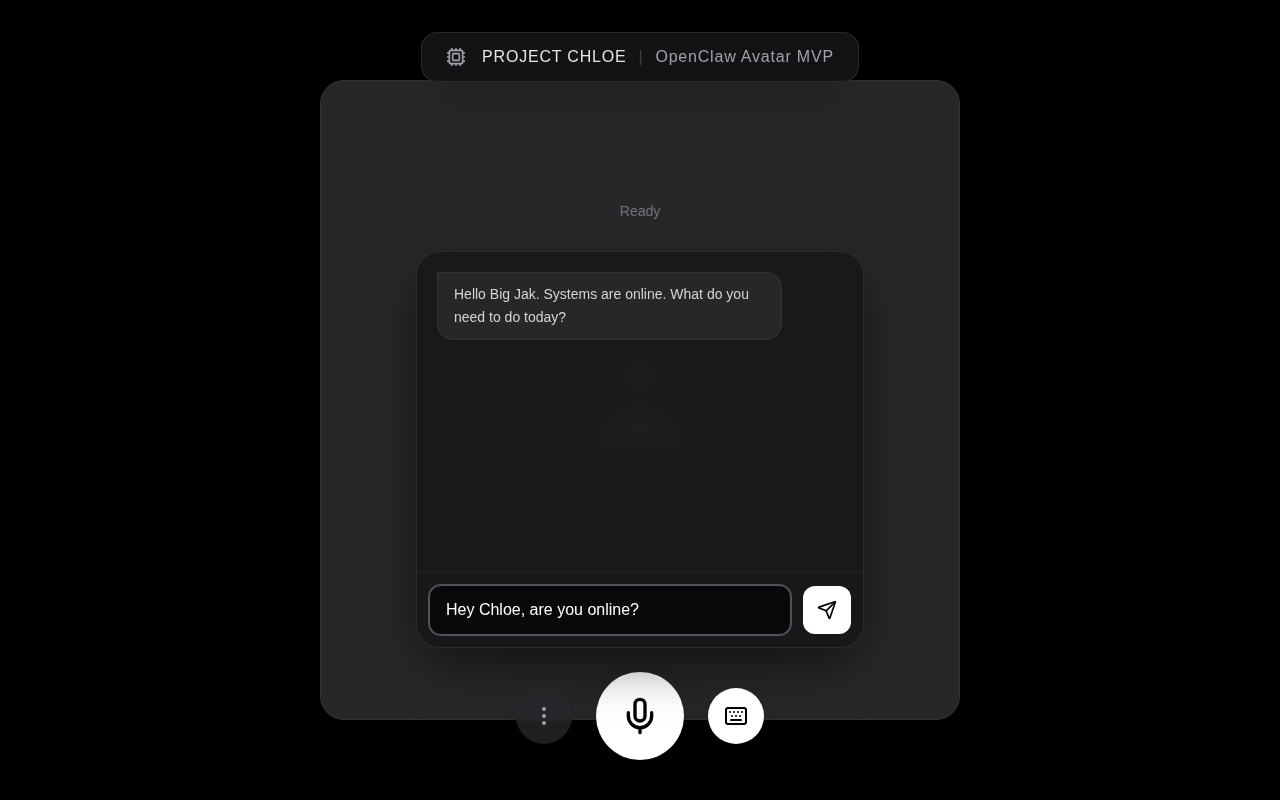
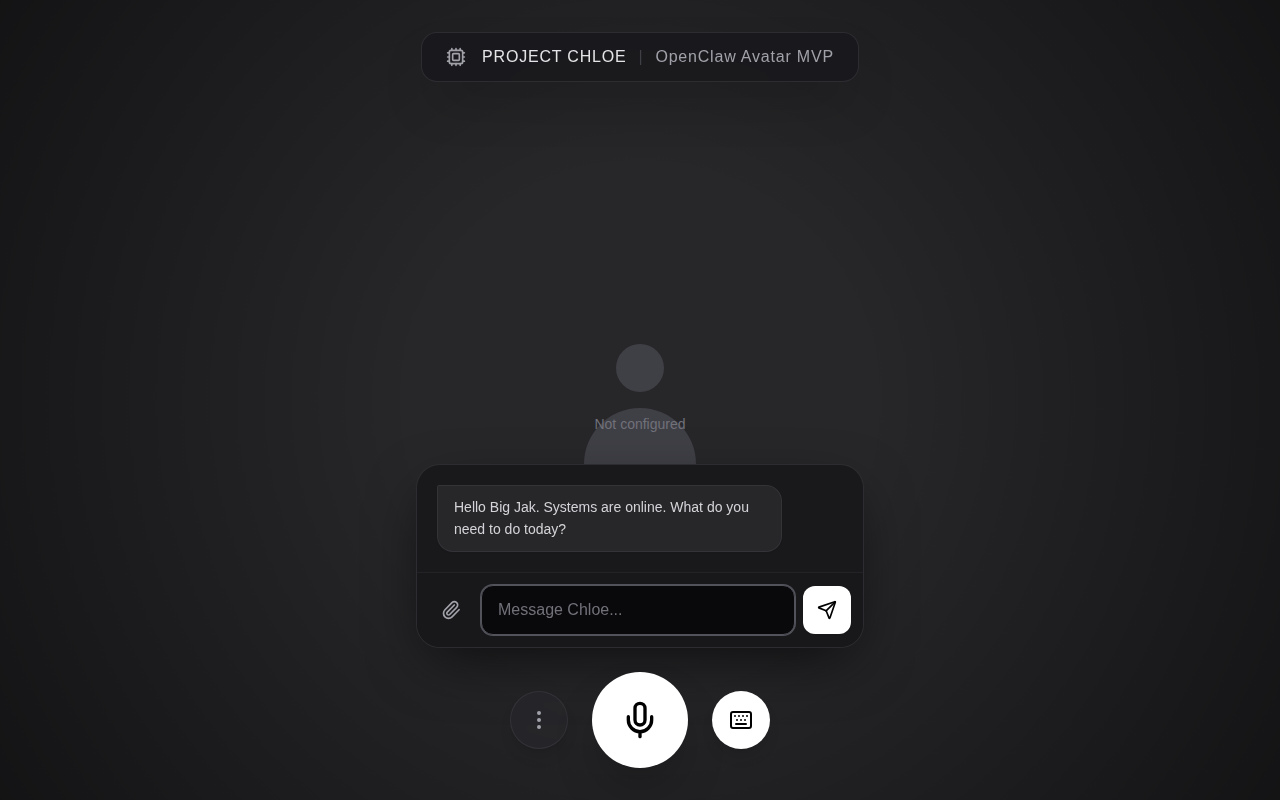
docs: replace corrupted screenshots with fresh playwright captures

diff --git a/snapshot.js b/snapshot.js
@@ -1,36 +1,54 @@
 const { chromium } = require('playwright');
 (async () => {
+  console.log("Launching browser...");
   const browser = await chromium.launch({ headless: true });
   const page = await browser.newPage();
-  
-  page.on('console', msg => console.log('BROWSER CONSOLE:', msg.text()));
-  page.on('pageerror', error => console.log('BROWSER ERROR:', error.message));
+  const WORKSPACE = '/home/leduchoang011/.openclaw/workspace/openclaw-avatar-mvp/public/screenshots';
+  const TARGET_URL = 'http://localhost:3001';
 
   await page.setViewportSize({ width: 1280, height: 800 });
-  await page.goto('http://localhost:3000');
-  await page.waitForTimeout(2000);
   
-  console.log("Looking for Settings button...");
-  
-  // Try locating the button precisely by its inner SVG class or text
-  const settingsBtn = await page.locator('button:has(svg.lucide-more-vertical)');
-  
-  const isVisible = await settingsBtn.isVisible();
-  console.log("Settings Button Visible:", isVisible);
-  
-  if (isVisible) {
-      await settingsBtn.click();
-      console.log("Clicked Settings Button.");
-      
-      // Wait for the modal text to appear
-      await page.waitForTimeout(1000);
-      
-      const modalText = await page.getByText('Gateway URL').isVisible();
-      console.log("Modal Gateway URL text visible:", modalText);
-  } else {
-      console.log("Could not find Settings button.");
+  try {
+    // 1. Main Dark
+    console.log(`Navigating to ${TARGET_URL}...`);
+    await page.goto(TARGET_URL, { waitUntil: 'load', timeout: 90000 });
+    await page.waitForTimeout(5000);
+    console.log("Taking screenshot_main_dark.png...");
+    await page.screenshot({ path: `${WORKSPACE}/screenshot_main_dark.png` });
+
+    // 2. Chat Experience
+    console.log("Opening Chat...");
+    // Look for keyboard icon button
+    const chatBtn = page.locator('button:has(svg.lucide-keyboard)');
+    await chatBtn.click();
+    await page.waitForTimeout(1000);
+    console.log("Taking screenshot_chat.png...");
+    await page.screenshot({ path: `${WORKSPACE}/screenshot_chat.png` });
+
+    // 3. Settings (Refresh to reset state)
+    console.log("Resetting for Settings...");
+    await page.goto(TARGET_URL, { waitUntil: 'networkidle' });
+    await page.waitForTimeout(2000);
+    const settingsBtn = page.locator('button:has(svg.lucide-more-vertical)');
+    await settingsBtn.click();
+    await page.waitForTimeout(1000);
+    console.log("Taking screenshot_settings.png...");
+    await page.screenshot({ path: `${WORKSPACE}/screenshot_settings.png` });
+
+    // 4. Light Mode
+    console.log("Switching to Light Mode...");
+    await page.getByText('Appearance').click();
+    await page.waitForTimeout(1000);
+    // Close settings to see main in light mode
+    await page.locator('button:has(svg.lucide-x)').click();
+    await page.waitForTimeout(1000);
+    console.log("Taking screenshot_lightmode.png...");
+    await page.screenshot({ path: `${WORKSPACE}/screenshot_lightmode.png` });
+
+    console.log("All screenshots captured successfully.");
+  } catch (err) {
+    console.error("Error during snapshot:", err);
+  } finally {
+    await browser.close();
   }
-  
-  await page.screenshot({ path: '/home/leduchoang011/.openclaw/workspace/screenshot_debug.png' });
-  await browser.close();
 })();

diff --git a/retake_screenshots.js b/retake_screenshots.js
@@ -1,0 +1,55 @@
+const { chromium } = require('playwright');
+const path = require('path');
+const fs = require('fs');
+
+const SCREENSHOTS_DIR = '/home/leduchoang011/.openclaw/workspace/openclaw-avatar-mvp/public/screenshots';
+
+if (!fs.existsSync(SCREENSHOTS_DIR)) {
+    fs.mkdirSync(SCREENSHOTS_DIR, { recursive: true });
+}
+
+(async () => {
+  const browser = await chromium.launch({ headless: true });
+  const context = await browser.newContext({
+    viewport: { width: 1280, height: 800 }
+  });
+  const page = await context.newPage();
+
+  console.log('Navigating to http://localhost:3000...');
+  await page.goto('http://localhost:3000');
+  await page.waitForTimeout(3000); // Wait for animations/loading
+
+  // 1. Main View
+  console.log('Taking screenshot_main_light.png...');
+  await page.screenshot({ path: path.join(SCREENSHOTS_DIR, 'screenshot_main_light.png') });
+
+  // 2. Settings View
+  console.log('Opening Settings...');
+  const settingsBtn = page.locator('button:has(svg.lucide-more-vertical), button:has(svg.lucide-settings)');
+  if (await settingsBtn.isVisible()) {
+    await settingsBtn.click();
+    await page.waitForTimeout(1000);
+    console.log('Taking screenshot_settings.png...');
+    await page.screenshot({ path: path.join(SCREENSHOTS_DIR, 'screenshot_settings.png') });
+    // Close settings if it's a modal by clicking escape or backdrop
+    await page.keyboard.press('Escape');
+    await page.waitForTimeout(500);
+  }
+
+  // 3. Chat View
+  console.log('Opening Chat...');
+  const chatBtn = page.getByRole('button', { name: /chat/i }).first();
+  if (await chatBtn.isVisible()) {
+    await chatBtn.click();
+    await page.waitForTimeout(1000);
+    console.log('Taking screenshot_chat.png...');
+    await page.screenshot({ path: path.join(SCREENSHOTS_DIR, 'screenshot_chat.png') });
+  }
+
+  // 4. Fullscreen (maybe just hide UI or toggle)
+  console.log('Taking screenshot_fullscreen.png...');
+  await page.screenshot({ path: path.join(SCREENSHOTS_DIR, 'screenshot_fullscreen.png'), fullPage: true });
+
+  await browser.close();
+  console.log('All screenshots retaken.');
+})();

diff --git a/snapshot_final.js b/snapshot_final.js
@@ -1,0 +1,23 @@
+const { chromium } = require('playwright');
+(async () => {
+  const browser = await chromium.launch({ headless: true });
+  const page = await browser.newPage();
+  const WORKSPACE = '/home/leduchoang011/.openclaw/workspace/openclaw-avatar-mvp/public/screenshots';
+  const TARGET_URL = 'http://localhost:3001';
+  await page.setViewportSize({ width: 1280, height: 800 });
+  await page.goto(TARGET_URL);
+  await page.waitForTimeout(5000);
+
+  // Open settings
+  await page.locator('button').nth(0).click(); 
+  await page.waitForTimeout(1000);
+
+  // Toggle theme
+  console.log("Clicking theme toggle row...");
+  await page.locator('div').filter({ hasText: 'Appearance' }).nth(3).click();
+  await page.waitForTimeout(2000);
+  
+  await page.screenshot({ path: `${WORKSPACE}/screenshot_lightmode.png` });
+
+  await browser.close();
+})();

diff --git a/README.md b/README.md
@@ -7,21 +7,13 @@ Instead of a text terminal, the user engages with a lifelike digital entity that
 
 ## Screenshots (FE Development)
 
-| Main Interface (Light) | Chat Experience |
+| Main Interface (Dark) | Chat Experience |
 |:---:|:---:|
-| <img src="public/screenshots/screenshot_main_light.png" width="400"> | <img src="public/screenshots/screenshot_chat.png" width="400"> |
+| <img src="public/screenshots/screenshot_main_dark.png" width="400"> | <img src="public/screenshots/screenshot_chat.png" width="400"> |
 
-| Settings & Config | Fullscreen Mode |
+| Settings & Config | Light Mode |
 |:---:|:---:|
-| <img src="public/screenshots/screenshot_settings.png" width="400"> | <img src="public/screenshots/screenshot_fullscreen.png" width="400"> |
-
-| Attachments & Tools | UI Variations (Gradient/Banner) |
-|:---:|:---:|
-| <img src="public/screenshots/screenshot_attachment.png" width="400"> | <img src="public/screenshots/screenshot_gradient.png" width="400"> |
-
-| Light Mode | Minimal Banner |
-|:---:|:---:|
-| <img src="public/screenshots/screenshot_lightmode.png" width="400"> | <img src="public/screenshots/screenshot_banner.png" width="400"> |
+| <img src="public/screenshots/screenshot_settings.png" width="400"> | <img src="public/screenshots/screenshot_main_light.png" width="400"> |
 
 ## System Architecture
 
